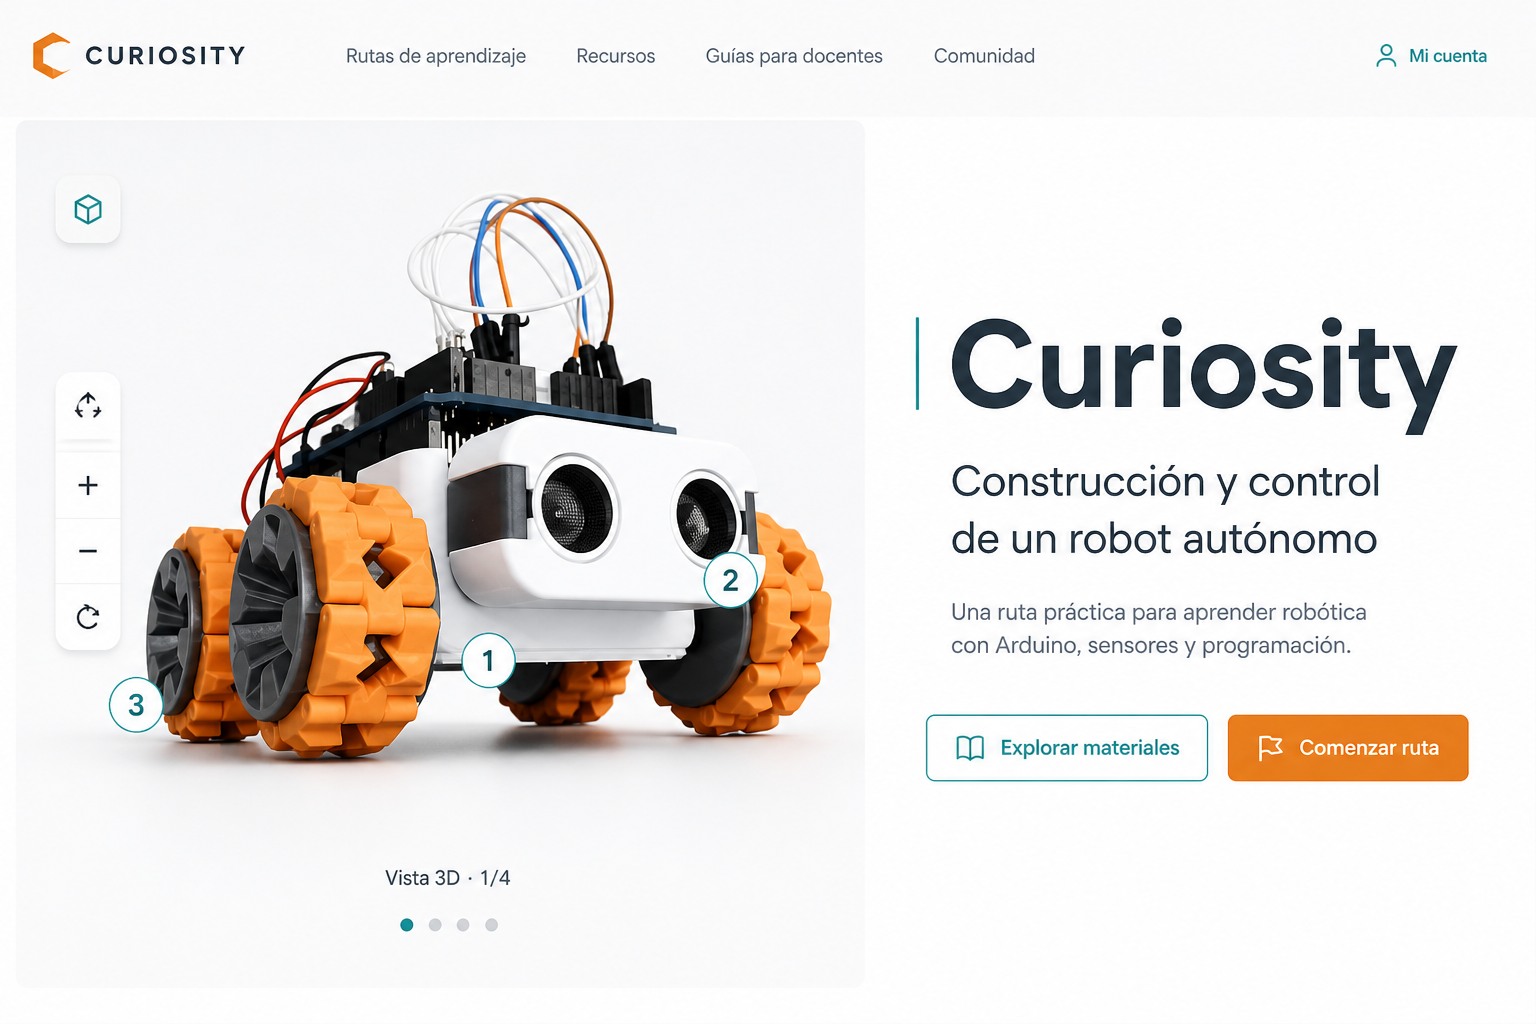
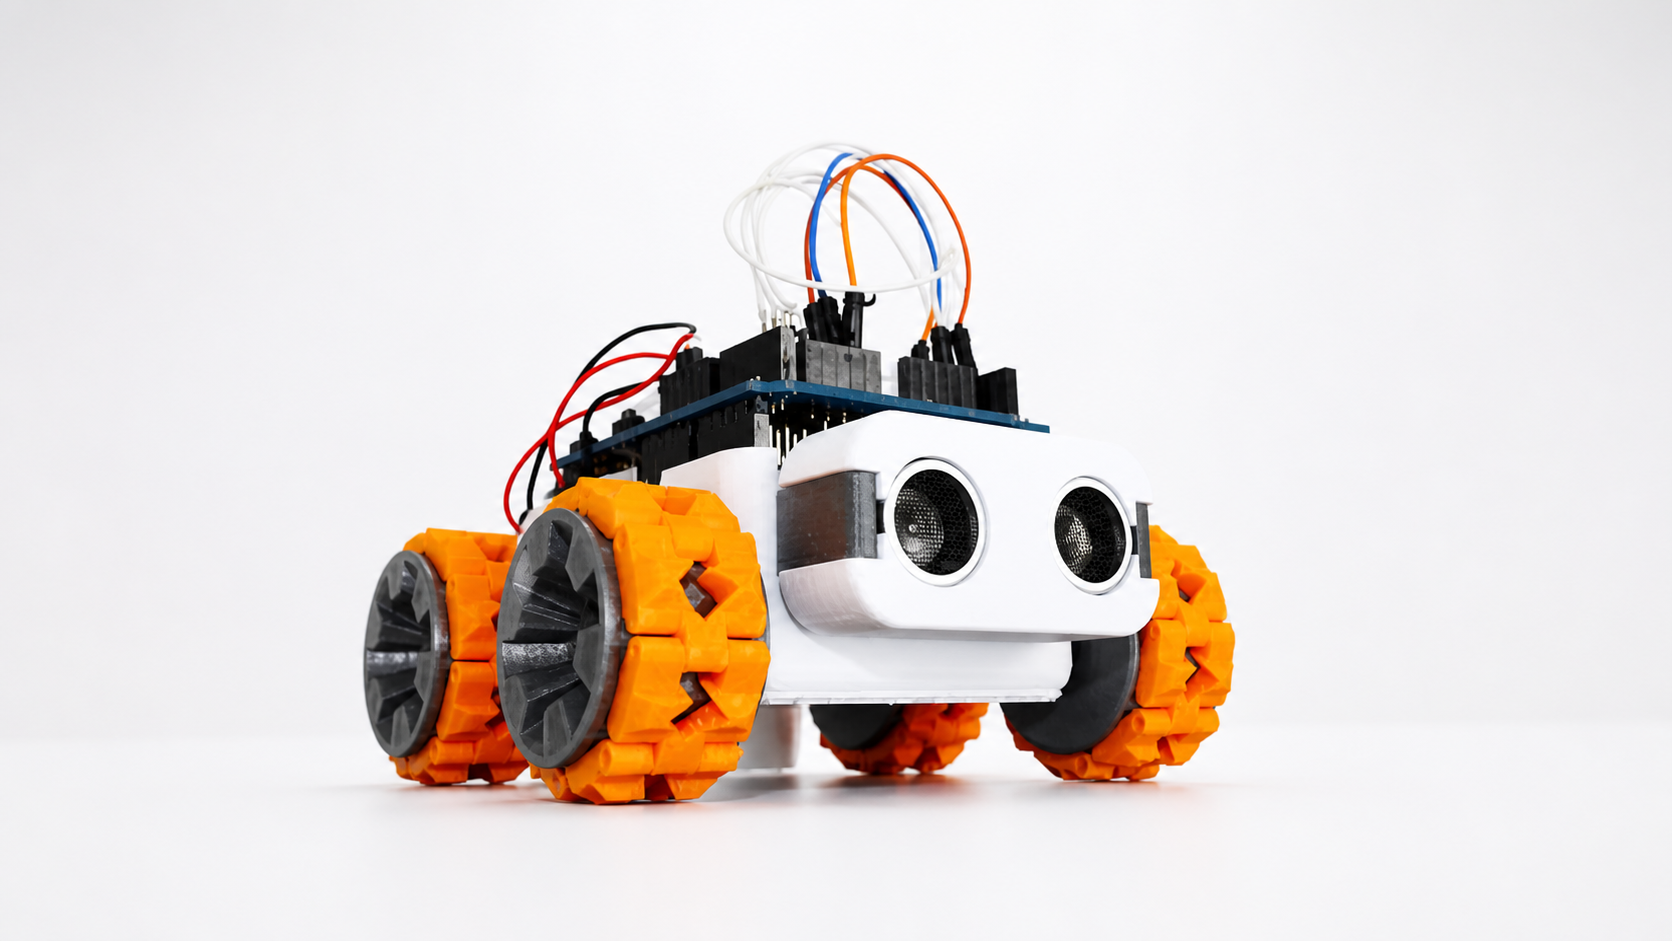
Refresh Curiosity hero image

diff --git a/src/css/custom.css b/src/css/custom.css
@@ -372,3 +372,49 @@ h1, h2, h3, h4, h5, h6 {
     scroll-behavior: auto !important;
   }
 }
+.curiosityHero {
+  position: relative;
+  margin: 24px 0 36px;
+  overflow: hidden;
+  border-radius: 8px;
+  background: #f7f8f8;
+}
+
+.curiosityHero img {
+  display: block;
+  width: 100%;
+  max-height: 560px;
+  object-fit: cover;
+}
+
+.curiosityHero figcaption {
+  position: absolute;
+  right: clamp(20px, 6vw, 88px);
+  bottom: clamp(20px, 5vw, 64px);
+  display: grid;
+  gap: 6px;
+  max-width: min(360px, 42%);
+  padding: 18px 22px;
+  border-left: 4px solid var(--gg-coral-500);
+  color: #17212b;
+  background: rgba(255, 255, 255, 0.9);
+}
+
+.curiosityHero figcaption strong {
+  font-size: clamp(1.6rem, 4vw, 2.8rem);
+  line-height: 1;
+}
+
+.curiosityHero figcaption span {
+  font-size: clamp(0.9rem, 1.8vw, 1.15rem);
+  line-height: 1.3;
+}
+
+@media (max-width: 700px) {
+  .curiosityHero figcaption {
+    position: static;
+    max-width: none;
+    border-left: 0;
+    border-top: 4px solid var(--gg-coral-500);
+  }
+}
